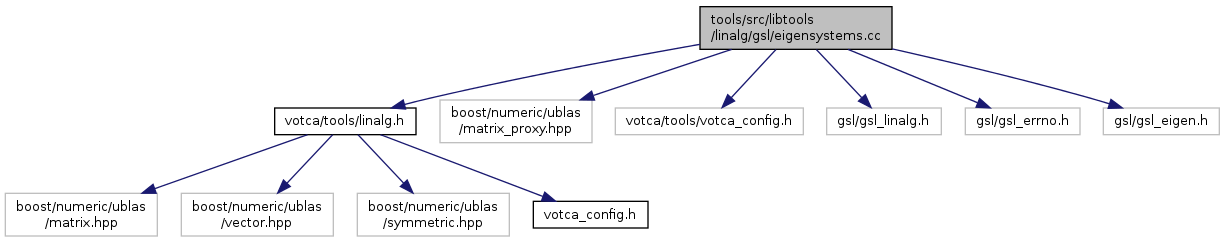
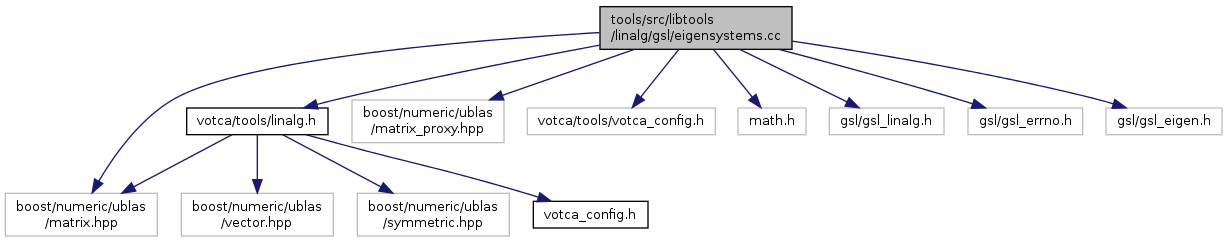
Documentation update

diff --git a/gsl_2eigensystems_8cc_source.html b/gsl_2eigensystems_8cc_source.html
@@ -72,18 +72,18 @@
 <div class="line"><a name="l00018"></a><span class="lineno">   18</span>&#160;<span class="preprocessor">#include &lt;<a class="code" href="linalg_8h.html">votca/tools/linalg.h</a>&gt;</span></div>
 <div class="line"><a name="l00019"></a><span class="lineno">   19</span>&#160;<span class="preprocessor">#include &lt;boost/numeric/ublas/matrix_proxy.hpp&gt;</span></div>
 <div class="line"><a name="l00020"></a><span class="lineno">   20</span>&#160;<span class="preprocessor">#include &lt;votca/tools/votca_config.h&gt;</span></div>
-<div class="line"><a name="l00021"></a><span class="lineno">   21</span>&#160;</div>
-<div class="line"><a name="l00022"></a><span class="lineno">   22</span>&#160;<span class="preprocessor">#ifndef NOGSL</span></div>
-<div class="line"><a name="l00023"></a><span class="lineno">   23</span>&#160;<span class="preprocessor"></span><span class="preprocessor">#include &lt;gsl/gsl_linalg.h&gt;</span></div>
-<div class="line"><a name="l00024"></a><span class="lineno">   24</span>&#160;<span class="preprocessor">#include &lt;gsl/gsl_errno.h&gt;</span></div>
-<div class="line"><a name="l00025"></a><span class="lineno">   25</span>&#160;<span class="preprocessor">#include &lt;gsl/gsl_eigen.h&gt;</span></div>
-<div class="line"><a name="l00026"></a><span class="lineno">   26</span>&#160;<span class="preprocessor">#endif</span></div>
-<div class="line"><a name="l00027"></a><span class="lineno">   27</span>&#160;<span class="preprocessor"></span></div>
-<div class="line"><a name="l00028"></a><span class="lineno">   28</span>&#160;</div>
-<div class="line"><a name="l00029"></a><span class="lineno">   29</span>&#160;<span class="keyword">namespace </span>votca { <span class="keyword">namespace </span>tools {</div>
-<div class="line"><a name="l00030"></a><span class="lineno">   30</span>&#160;</div>
-<div class="line"><a name="l00031"></a><span class="lineno">   31</span>&#160;<span class="keyword">using namespace </span>std;</div>
-<div class="line"><a name="l00032"></a><span class="lineno">   32</span>&#160;</div>
+<div class="line"><a name="l00021"></a><span class="lineno">   21</span>&#160;<span class="preprocessor">#include &lt;boost/numeric/ublas/matrix.hpp&gt;</span></div>
+<div class="line"><a name="l00022"></a><span class="lineno">   22</span>&#160;<span class="preprocessor">#include &lt;math.h&gt;</span>       <span class="comment">/* sqrt */</span></div>
+<div class="line"><a name="l00023"></a><span class="lineno">   23</span>&#160;<span class="preprocessor">#ifndef NOGSL</span></div>
+<div class="line"><a name="l00024"></a><span class="lineno">   24</span>&#160;<span class="preprocessor"></span><span class="preprocessor">#include &lt;gsl/gsl_linalg.h&gt;</span></div>
+<div class="line"><a name="l00025"></a><span class="lineno">   25</span>&#160;<span class="preprocessor">#include &lt;gsl/gsl_errno.h&gt;</span></div>
+<div class="line"><a name="l00026"></a><span class="lineno">   26</span>&#160;<span class="preprocessor">#include &lt;gsl/gsl_eigen.h&gt;</span></div>
+<div class="line"><a name="l00027"></a><span class="lineno">   27</span>&#160;<span class="preprocessor">#endif</span></div>
+<div class="line"><a name="l00028"></a><span class="lineno">   28</span>&#160;<span class="preprocessor"></span></div>
+<div class="line"><a name="l00029"></a><span class="lineno">   29</span>&#160;</div>
+<div class="line"><a name="l00030"></a><span class="lineno">   30</span>&#160;<span class="keyword">namespace </span>votca { <span class="keyword">namespace </span>tools {</div>
+<div class="line"><a name="l00031"></a><span class="lineno">   31</span>&#160;</div>
+<div class="line"><a name="l00032"></a><span class="lineno">   32</span>&#160;<span class="keyword">using namespace </span>std;</div>
 <div class="line"><a name="l00033"></a><span class="lineno">   33</span>&#160; </div>
 <div class="line"><a name="l00040"></a><span class="lineno"><a class="line" href="namespacevotca_1_1tools.html#a70042ba07c0a9b06bb6c6fa1e0dada20">   40</a></span>&#160;<span class="keywordtype">bool</span> <a class="code" href="namespacevotca_1_1tools.html#a70042ba07c0a9b06bb6c6fa1e0dada20">linalg_eigenvalues_symmetric</a>( ub::symmetric_matrix&lt;double&gt; &amp;<a class="code" href="linsolve_8m.html#a3b98e2dffc6cb06a89dcb0d5c60a0206">A</a>, ub::vector&lt;double&gt; &amp;E, ub::matrix&lt;double&gt; &amp;V)</div>
 <div class="line"><a name="l00041"></a><span class="lineno">   41</span>&#160;{</div>
@@ -269,30 +269,61 @@
 <div class="line"><a name="l00242"></a><span class="lineno">  242</span>&#160;        gsl_error_handler_t *handler = gsl_set_error_handler_off();</div>
 <div class="line"><a name="l00243"></a><span class="lineno">  243</span>&#160;        <span class="keyword">const</span> <span class="keywordtype">size_t</span> N = A.size1();</div>
 <div class="line"><a name="l00244"></a><span class="lineno">  244</span>&#160;        </div>
-<div class="line"><a name="l00245"></a><span class="lineno">  245</span>&#160;        <span class="comment">// gsl does not handle conversion of a symmetric_matrix </span></div>
+<div class="line"><a name="l00245"></a><span class="lineno">  245</span>&#160;        <span class="comment">// gsl destroys A so use copy</span></div>
 <div class="line"><a name="l00246"></a><span class="lineno">  246</span>&#160;        ub::matrix&lt;double&gt; _A( N,N );</div>
 <div class="line"><a name="l00247"></a><span class="lineno">  247</span>&#160;        _A = <a class="code" href="linsolve_8m.html#a3b98e2dffc6cb06a89dcb0d5c60a0206">A</a>;</div>
 <div class="line"><a name="l00248"></a><span class="lineno">  248</span>&#160;        </div>
-<div class="line"><a name="l00249"></a><span class="lineno">  249</span>&#160;        E.resize(N, <span class="keyword">false</span>);</div>
-<div class="line"><a name="l00250"></a><span class="lineno">  250</span>&#160;        V.resize(N, N, <span class="keyword">false</span>);</div>
-<div class="line"><a name="l00251"></a><span class="lineno">  251</span>&#160;        gsl_matrix_view A_view = gsl_matrix_view_array(&amp;_A(0,0), N, N);</div>
-<div class="line"><a name="l00252"></a><span class="lineno">  252</span>&#160;        gsl_matrix_view B_view = gsl_matrix_view_array(&amp;B(0,0), N, N);</div>
-<div class="line"><a name="l00253"></a><span class="lineno">  253</span>&#160;        gsl_vector_view E_view = gsl_vector_view_array(&amp;E(0), N);</div>
-<div class="line"><a name="l00254"></a><span class="lineno">  254</span>&#160;        gsl_matrix_view V_view = gsl_matrix_view_array(&amp;V(0,0), N, N);</div>
-<div class="line"><a name="l00255"></a><span class="lineno">  255</span>&#160;        gsl_eigen_gensymmv_workspace *w = gsl_eigen_gensymmv_alloc(N);</div>
-<div class="line"><a name="l00256"></a><span class="lineno">  256</span>&#160;</div>
-<div class="line"><a name="l00257"></a><span class="lineno">  257</span>&#160;        <span class="keywordtype">int</span> status = gsl_eigen_gensymmv(&amp;A_view.matrix,&amp;B_view.matrix, &amp;E_view.vector, &amp;V_view.matrix, w);</div>
-<div class="line"><a name="l00258"></a><span class="lineno">  258</span>&#160;        gsl_eigen_gensymmv_sort(&amp;E_view.vector, &amp;V_view.matrix, GSL_EIGEN_SORT_VAL_ASC);</div>
-<div class="line"><a name="l00259"></a><span class="lineno">  259</span>&#160;        gsl_eigen_gensymmv_free(w);</div>
-<div class="line"><a name="l00260"></a><span class="lineno">  260</span>&#160;        gsl_set_error_handler(handler);</div>
-<div class="line"><a name="l00261"></a><span class="lineno">  261</span>&#160;        </div>
-<div class="line"><a name="l00262"></a><span class="lineno">  262</span>&#160;        <span class="keywordflow">return</span> (status != 0);</div>
-<div class="line"><a name="l00263"></a><span class="lineno">  263</span>&#160;<span class="preprocessor">#endif</span></div>
-<div class="line"><a name="l00264"></a><span class="lineno">  264</span>&#160;<span class="preprocessor"></span>};</div>
-<div class="line"><a name="l00265"></a><span class="lineno">  265</span>&#160;</div>
+<div class="line"><a name="l00249"></a><span class="lineno">  249</span>&#160;        ub::matrix&lt;double&gt; _B( N,N );</div>
+<div class="line"><a name="l00250"></a><span class="lineno">  250</span>&#160;        _B=B;</div>
+<div class="line"><a name="l00251"></a><span class="lineno">  251</span>&#160;        </div>
+<div class="line"><a name="l00252"></a><span class="lineno">  252</span>&#160;        E.resize(N, <span class="keyword">false</span>);</div>
+<div class="line"><a name="l00253"></a><span class="lineno">  253</span>&#160;        V.resize(N, N, <span class="keyword">false</span>);</div>
+<div class="line"><a name="l00254"></a><span class="lineno">  254</span>&#160;        gsl_matrix_view A_view = gsl_matrix_view_array(&amp;_A(0,0), N, N);</div>
+<div class="line"><a name="l00255"></a><span class="lineno">  255</span>&#160;        gsl_matrix_view B_view = gsl_matrix_view_array(&amp;_B(0,0), N, N);</div>
+<div class="line"><a name="l00256"></a><span class="lineno">  256</span>&#160;        gsl_vector_view E_view = gsl_vector_view_array(&amp;E(0), N);</div>
+<div class="line"><a name="l00257"></a><span class="lineno">  257</span>&#160;        gsl_matrix_view V_view = gsl_matrix_view_array(&amp;V(0,0), N, N);</div>
+<div class="line"><a name="l00258"></a><span class="lineno">  258</span>&#160;        gsl_eigen_gensymmv_workspace *w = gsl_eigen_gensymmv_alloc(N);</div>
+<div class="line"><a name="l00259"></a><span class="lineno">  259</span>&#160;</div>
+<div class="line"><a name="l00260"></a><span class="lineno">  260</span>&#160;        <span class="keywordtype">int</span> status = gsl_eigen_gensymmv(&amp;A_view.matrix,&amp;B_view.matrix, &amp;E_view.vector, &amp;V_view.matrix, w);</div>
+<div class="line"><a name="l00261"></a><span class="lineno">  261</span>&#160;        gsl_eigen_gensymmv_sort(&amp;E_view.vector, &amp;V_view.matrix, GSL_EIGEN_SORT_VAL_ASC);</div>
+<div class="line"><a name="l00262"></a><span class="lineno">  262</span>&#160;        gsl_eigen_gensymmv_free(w);</div>
+<div class="line"><a name="l00263"></a><span class="lineno">  263</span>&#160;        gsl_set_error_handler(handler);</div>
+<div class="line"><a name="l00264"></a><span class="lineno">  264</span>&#160;        </div>
+<div class="line"><a name="l00265"></a><span class="lineno">  265</span>&#160;      </div>
 <div class="line"><a name="l00266"></a><span class="lineno">  266</span>&#160;</div>
-<div class="line"><a name="l00267"></a><span class="lineno">  267</span>&#160;</div>
-<div class="line"><a name="l00268"></a><span class="lineno">  268</span>&#160;}}</div>
+<div class="line"><a name="l00267"></a><span class="lineno">  267</span>&#160;    </div>
+<div class="line"><a name="l00268"></a><span class="lineno">  268</span>&#160;        ub::matrix&lt;double&gt; _temp= ub::prod(B,V);</div>
+<div class="line"><a name="l00269"></a><span class="lineno">  269</span>&#160;        ub::matrix&lt;double&gt; n=ub::prod(ub::trans(V),_temp);</div>
+<div class="line"><a name="l00270"></a><span class="lineno">  270</span>&#160;      <span class="comment">/*  </span></div>
+<div class="line"><a name="l00271"></a><span class="lineno">  271</span>&#160;<span class="comment">        for (int i=0;i&lt;n.size1();i++){</span></div>
+<div class="line"><a name="l00272"></a><span class="lineno">  272</span>&#160;<span class="comment">          </span></div>
+<div class="line"><a name="l00273"></a><span class="lineno">  273</span>&#160;<span class="comment">                for (int j=0;j&lt;n.size2();j++){</span></div>
+<div class="line"><a name="l00274"></a><span class="lineno">  274</span>&#160;<span class="comment">                cout &lt;&lt;&quot;n(&quot;&lt;&lt; i &lt;&lt; &quot;:&quot;&lt;&lt; j &lt;&lt;&quot;)= &quot; &lt;&lt;n(i,j)&lt;&lt; endl;      </span></div>
+<div class="line"><a name="l00275"></a><span class="lineno">  275</span>&#160;<span class="comment">                }}</span></div>
+<div class="line"><a name="l00276"></a><span class="lineno">  276</span>&#160;<span class="comment">        </span></div>
+<div class="line"><a name="l00277"></a><span class="lineno">  277</span>&#160;<span class="comment">       */</span> </div>
+<div class="line"><a name="l00278"></a><span class="lineno">  278</span>&#160;        </div>
+<div class="line"><a name="l00279"></a><span class="lineno">  279</span>&#160;        <span class="keywordflow">for</span> (<span class="keywordtype">int</span> <a class="code" href="ImagePotential_8h.html#a7e98b8a17c0aad30ba64d47b74e2a6c1">i</a>=0;<a class="code" href="ImagePotential_8h.html#a7e98b8a17c0aad30ba64d47b74e2a6c1">i</a>&lt;n.size1();<a class="code" href="ImagePotential_8h.html#a7e98b8a17c0aad30ba64d47b74e2a6c1">i</a>++){</div>
+<div class="line"><a name="l00280"></a><span class="lineno">  280</span>&#160;            ub::matrix_range&lt;ub::matrix&lt;double&gt; &gt; column=ub::subrange( V, 0, V.size2(),<a class="code" href="ImagePotential_8h.html#a7e98b8a17c0aad30ba64d47b74e2a6c1">i</a>, <a class="code" href="ImagePotential_8h.html#a7e98b8a17c0aad30ba64d47b74e2a6c1">i</a>+1 );</div>
+<div class="line"><a name="l00281"></a><span class="lineno">  281</span>&#160;            <span class="comment">//cout &lt;&lt;&quot;n(&quot;&lt;&lt; i &lt;&lt; &quot;:&quot;&lt;&lt; i &lt;&lt;&quot;)= &quot; &lt;&lt;n(i,i) &lt;&lt;&quot;:&quot; &lt;&lt;sqrt(n(i,i))&lt;&lt; endl; </span></div>
+<div class="line"><a name="l00282"></a><span class="lineno">  282</span>&#160;            <span class="comment">//for (int j=0;j&lt;column.size1();j++){</span></div>
+<div class="line"><a name="l00283"></a><span class="lineno">  283</span>&#160;                </div>
+<div class="line"><a name="l00284"></a><span class="lineno">  284</span>&#160;           </div>
+<div class="line"><a name="l00285"></a><span class="lineno">  285</span>&#160;            <span class="comment">//cout &lt;&lt;&quot;V(&quot;&lt;&lt;i&lt;&lt;&quot;:&quot;&lt;&lt;j&lt;&lt;&quot;)=&quot;&lt;&lt;column(j,0)&lt;&lt; endl;</span></div>
+<div class="line"><a name="l00286"></a><span class="lineno">  286</span>&#160;                    </div>
+<div class="line"><a name="l00287"></a><span class="lineno">  287</span>&#160;              <span class="comment">//}</span></div>
+<div class="line"><a name="l00288"></a><span class="lineno">  288</span>&#160;            column=column/sqrt(n(<a class="code" href="ImagePotential_8h.html#a7e98b8a17c0aad30ba64d47b74e2a6c1">i</a>,<a class="code" href="ImagePotential_8h.html#a7e98b8a17c0aad30ba64d47b74e2a6c1">i</a>));</div>
+<div class="line"><a name="l00289"></a><span class="lineno">  289</span>&#160;  </div>
+<div class="line"><a name="l00290"></a><span class="lineno">  290</span>&#160;        }</div>
+<div class="line"><a name="l00291"></a><span class="lineno">  291</span>&#160;    </div>
+<div class="line"><a name="l00292"></a><span class="lineno">  292</span>&#160;        <span class="keywordflow">return</span> (status != 0);</div>
+<div class="line"><a name="l00293"></a><span class="lineno">  293</span>&#160;<span class="preprocessor">#endif</span></div>
+<div class="line"><a name="l00294"></a><span class="lineno">  294</span>&#160;<span class="preprocessor"></span>};</div>
+<div class="line"><a name="l00295"></a><span class="lineno">  295</span>&#160;</div>
+<div class="line"><a name="l00296"></a><span class="lineno">  296</span>&#160;</div>
+<div class="line"><a name="l00297"></a><span class="lineno">  297</span>&#160;</div>
+<div class="line"><a name="l00298"></a><span class="lineno">  298</span>&#160;}}</div>
+<div class="ttc" id="ImagePotential_8h_html_a7e98b8a17c0aad30ba64d47b74e2a6c1"><div class="ttname"><a href="ImagePotential_8h.html#a7e98b8a17c0aad30ba64d47b74e2a6c1">i</a></div><div class="ttdeci">int i</div><div class="ttdef"><b>Definition:</b> <a href="ImagePotential_8h_source.html#l00028">ImagePotential.h:28</a></div></div>
 <div class="ttc" id="linalg_8h_html"><div class="ttname"><a href="linalg_8h.html">linalg.h</a></div></div>
 <div class="ttc" id="namespacevotca_1_1tools_html_a70042ba07c0a9b06bb6c6fa1e0dada20"><div class="ttname"><a href="namespacevotca_1_1tools.html#a70042ba07c0a9b06bb6c6fa1e0dada20">votca::tools::linalg_eigenvalues_symmetric</a></div><div class="ttdeci">bool linalg_eigenvalues_symmetric(ub::symmetric_matrix&lt; double &gt; &amp;A, ub::vector&lt; double &gt; &amp;E, ub::matrix&lt; double &gt; &amp;V)</div><div class="ttdoc">eigenvalues of a symmetric matrix A*x=E*x </div><div class="ttdef"><b>Definition:</b> <a href="gsl_2eigensystems_8cc_source.html#l00040">eigensystems.cc:40</a></div></div>
 <div class="ttc" id="namespacevotca_1_1tools_html_aef4efe58314fc9ce77156196baea1783"><div class="ttname"><a href="namespacevotca_1_1tools.html#aef4efe58314fc9ce77156196baea1783">votca::tools::linalg_eigenvalues_general</a></div><div class="ttdeci">bool linalg_eigenvalues_general(ub::matrix&lt; double &gt; &amp;A, ub::matrix&lt; double &gt; &amp;B, ub::vector&lt; double &gt; &amp;E, ub::matrix&lt; double &gt; &amp;V)</div><div class="ttdoc">eigenvalues of a symmetric matrix A*x=E*B*x double precision </div><div class="ttdef"><b>Definition:</b> <a href="gsl_2eigensystems_8cc_source.html#l00236">eigensystems.cc:236</a></div></div>

diff --git a/mkl_2eigensystems_8cc_source.html b/mkl_2eigensystems_8cc_source.html
@@ -386,42 +386,44 @@
 <div class="line"><a name="l00332"></a><span class="lineno">  332</span>&#160;    <span class="keywordtype">int</span> n = A.size1();</div>
 <div class="line"><a name="l00333"></a><span class="lineno">  333</span>&#160;    <span class="keywordtype">int</span> lda = n ;</div>
 <div class="line"><a name="l00334"></a><span class="lineno">  334</span>&#160;    <span class="keywordtype">int</span> ldb =B.size1();</div>
-<div class="line"><a name="l00335"></a><span class="lineno">  335</span>&#160;    <span class="keywordflow">if</span> (lda!=ldb){</div>
-<div class="line"><a name="l00336"></a><span class="lineno">  336</span>&#160;        cout &lt;&lt; <span class="stringliteral">&quot;Matrices A and B have not the same size&quot;</span>&lt;&lt; endl;</div>
-<div class="line"><a name="l00337"></a><span class="lineno">  337</span>&#160;        exit(1);</div>
-<div class="line"><a name="l00338"></a><span class="lineno">  338</span>&#160;    }</div>
-<div class="line"><a name="l00339"></a><span class="lineno">  339</span>&#160;    <span class="comment">// make sure that containers for eigenvalues and eigenvectors are of correct size</span></div>
-<div class="line"><a name="l00340"></a><span class="lineno">  340</span>&#160;    E.resize(n);</div>
-<div class="line"><a name="l00341"></a><span class="lineno">  341</span>&#160;    V.resize(n, n);</div>
-<div class="line"><a name="l00342"></a><span class="lineno">  342</span>&#160;    <span class="comment">// Query and allocate the optimal workspace </span></div>
-<div class="line"><a name="l00343"></a><span class="lineno">  343</span>&#160;    <span class="keywordtype">double</span> wkopt;</div>
-<div class="line"><a name="l00344"></a><span class="lineno">  344</span>&#160;    <span class="keywordtype">double</span>* work;</div>
-<div class="line"><a name="l00345"></a><span class="lineno">  345</span>&#160;    <span class="keywordtype">int</span> info;</div>
-<div class="line"><a name="l00346"></a><span class="lineno">  346</span>&#160;    <span class="keywordtype">int</span> lwork;</div>
-<div class="line"><a name="l00347"></a><span class="lineno">  347</span>&#160;    lwork = -1;</div>
-<div class="line"><a name="l00348"></a><span class="lineno">  348</span>&#160;</div>
-<div class="line"><a name="l00349"></a><span class="lineno">  349</span>&#160;    <span class="comment">// MKL is different to GSL because it overwrites the input matrix</span></div>
-<div class="line"><a name="l00350"></a><span class="lineno">  350</span>&#160;    V = <a class="code" href="linsolve_8m.html#a3b98e2dffc6cb06a89dcb0d5c60a0206">A</a>; <span class="comment">// make a copy (might actually be unnecessary in most cases!)</span></div>
-<div class="line"><a name="l00351"></a><span class="lineno">  351</span>&#160;</div>
-<div class="line"><a name="l00352"></a><span class="lineno">  352</span>&#160;    <span class="comment">// make a pointer to the ublas matrix so that LAPACK understands it </span></div>
-<div class="line"><a name="l00353"></a><span class="lineno">  353</span>&#160;    <span class="keywordtype">double</span> * pB = <span class="keyword">const_cast&lt;</span><span class="keywordtype">double</span>*<span class="keyword">&gt;</span>(&amp;B.data().begin()[0]);  </div>
-<div class="line"><a name="l00354"></a><span class="lineno">  354</span>&#160;    <span class="keywordtype">double</span> * pV = <span class="keyword">const_cast&lt;</span><span class="keywordtype">double</span>*<span class="keyword">&gt;</span>(&amp;V.data().begin()[0]);</div>
-<div class="line"><a name="l00355"></a><span class="lineno">  355</span>&#160;    <span class="keywordtype">double</span> * pE = <span class="keyword">const_cast&lt;</span><span class="keywordtype">double</span>*<span class="keyword">&gt;</span>(&amp;E.data()[0]);</div>
-<div class="line"><a name="l00356"></a><span class="lineno">  356</span>&#160;    </div>
-<div class="line"><a name="l00357"></a><span class="lineno">  357</span>&#160;    <span class="comment">// call LAPACK via C interface</span></div>
-<div class="line"><a name="l00358"></a><span class="lineno">  358</span>&#160;    info = LAPACKE_dsygv( LAPACK_ROW_MAJOR,1,<span class="charliteral">&#39;V&#39;</span>, <span class="charliteral">&#39;U&#39;</span>, n, pV , lda,pB,ldb, pE );</div>
-<div class="line"><a name="l00359"></a><span class="lineno">  359</span>&#160;</div>
-<div class="line"><a name="l00360"></a><span class="lineno">  360</span>&#160;    <span class="keywordflow">if</span>( info &gt; 0 ) {</div>
-<div class="line"><a name="l00361"></a><span class="lineno">  361</span>&#160;        <span class="keywordflow">return</span> <span class="keyword">false</span>;</div>
-<div class="line"><a name="l00362"></a><span class="lineno">  362</span>&#160;    } <span class="keywordflow">else</span> {</div>
-<div class="line"><a name="l00363"></a><span class="lineno">  363</span>&#160;        <span class="keywordflow">return</span> <span class="keyword">true</span>;</div>
-<div class="line"><a name="l00364"></a><span class="lineno">  364</span>&#160;    }</div>
-<div class="line"><a name="l00365"></a><span class="lineno">  365</span>&#160;</div>
-<div class="line"><a name="l00366"></a><span class="lineno">  366</span>&#160;<span class="preprocessor">#endif</span></div>
-<div class="line"><a name="l00367"></a><span class="lineno">  367</span>&#160;<span class="preprocessor"></span>};</div>
-<div class="line"><a name="l00368"></a><span class="lineno">  368</span>&#160;</div>
-<div class="line"><a name="l00369"></a><span class="lineno">  369</span>&#160;</div>
-<div class="line"><a name="l00370"></a><span class="lineno">  370</span>&#160;}}</div>
+<div class="line"><a name="l00335"></a><span class="lineno">  335</span>&#160;    ub::matrix&lt;double&gt; _B(ldb,ldb);</div>
+<div class="line"><a name="l00336"></a><span class="lineno">  336</span>&#160;    _B=B;</div>
+<div class="line"><a name="l00337"></a><span class="lineno">  337</span>&#160;    <span class="keywordflow">if</span> (lda!=ldb){</div>
+<div class="line"><a name="l00338"></a><span class="lineno">  338</span>&#160;        cout &lt;&lt; <span class="stringliteral">&quot;Matrices A and B have not the same size&quot;</span>&lt;&lt; endl;</div>
+<div class="line"><a name="l00339"></a><span class="lineno">  339</span>&#160;        exit(1);</div>
+<div class="line"><a name="l00340"></a><span class="lineno">  340</span>&#160;    }</div>
+<div class="line"><a name="l00341"></a><span class="lineno">  341</span>&#160;    <span class="comment">// make sure that containers for eigenvalues and eigenvectors are of correct size</span></div>
+<div class="line"><a name="l00342"></a><span class="lineno">  342</span>&#160;    E.resize(n);</div>
+<div class="line"><a name="l00343"></a><span class="lineno">  343</span>&#160;    V.resize(n, n);</div>
+<div class="line"><a name="l00344"></a><span class="lineno">  344</span>&#160;    <span class="comment">// Query and allocate the optimal workspace </span></div>
+<div class="line"><a name="l00345"></a><span class="lineno">  345</span>&#160;    <span class="keywordtype">double</span> wkopt;</div>
+<div class="line"><a name="l00346"></a><span class="lineno">  346</span>&#160;    <span class="keywordtype">double</span>* work;</div>
+<div class="line"><a name="l00347"></a><span class="lineno">  347</span>&#160;    <span class="keywordtype">int</span> info;</div>
+<div class="line"><a name="l00348"></a><span class="lineno">  348</span>&#160;    <span class="keywordtype">int</span> lwork;</div>
+<div class="line"><a name="l00349"></a><span class="lineno">  349</span>&#160;    lwork = -1;</div>
+<div class="line"><a name="l00350"></a><span class="lineno">  350</span>&#160;</div>
+<div class="line"><a name="l00351"></a><span class="lineno">  351</span>&#160;    <span class="comment">// MKL is different to GSL because it overwrites the input matrix</span></div>
+<div class="line"><a name="l00352"></a><span class="lineno">  352</span>&#160;    V = <a class="code" href="linsolve_8m.html#a3b98e2dffc6cb06a89dcb0d5c60a0206">A</a>; <span class="comment">// make a copy (might actually be unnecessary in most cases!)</span></div>
+<div class="line"><a name="l00353"></a><span class="lineno">  353</span>&#160;</div>
+<div class="line"><a name="l00354"></a><span class="lineno">  354</span>&#160;    <span class="comment">// make a pointer to the ublas matrix so that LAPACK understands it </span></div>
+<div class="line"><a name="l00355"></a><span class="lineno">  355</span>&#160;    <span class="keywordtype">double</span> * pB = <span class="keyword">const_cast&lt;</span><span class="keywordtype">double</span>*<span class="keyword">&gt;</span>(&amp;_B.data().begin()[0]);  </div>
+<div class="line"><a name="l00356"></a><span class="lineno">  356</span>&#160;    <span class="keywordtype">double</span> * pV = <span class="keyword">const_cast&lt;</span><span class="keywordtype">double</span>*<span class="keyword">&gt;</span>(&amp;V.data().begin()[0]);</div>
+<div class="line"><a name="l00357"></a><span class="lineno">  357</span>&#160;    <span class="keywordtype">double</span> * pE = <span class="keyword">const_cast&lt;</span><span class="keywordtype">double</span>*<span class="keyword">&gt;</span>(&amp;E.data()[0]);</div>
+<div class="line"><a name="l00358"></a><span class="lineno">  358</span>&#160;    </div>
+<div class="line"><a name="l00359"></a><span class="lineno">  359</span>&#160;    <span class="comment">// call LAPACK via C interface</span></div>
+<div class="line"><a name="l00360"></a><span class="lineno">  360</span>&#160;    info = LAPACKE_dsygv( LAPACK_ROW_MAJOR,1,<span class="charliteral">&#39;V&#39;</span>, <span class="charliteral">&#39;U&#39;</span>, n, pV , lda,pB,ldb, pE );</div>
+<div class="line"><a name="l00361"></a><span class="lineno">  361</span>&#160;</div>
+<div class="line"><a name="l00362"></a><span class="lineno">  362</span>&#160;    <span class="keywordflow">if</span>( info &gt; 0 ) {</div>
+<div class="line"><a name="l00363"></a><span class="lineno">  363</span>&#160;        <span class="keywordflow">return</span> <span class="keyword">false</span>;</div>
+<div class="line"><a name="l00364"></a><span class="lineno">  364</span>&#160;    } <span class="keywordflow">else</span> {</div>
+<div class="line"><a name="l00365"></a><span class="lineno">  365</span>&#160;        <span class="keywordflow">return</span> <span class="keyword">true</span>;</div>
+<div class="line"><a name="l00366"></a><span class="lineno">  366</span>&#160;    }</div>
+<div class="line"><a name="l00367"></a><span class="lineno">  367</span>&#160;</div>
+<div class="line"><a name="l00368"></a><span class="lineno">  368</span>&#160;<span class="preprocessor">#endif</span></div>
+<div class="line"><a name="l00369"></a><span class="lineno">  369</span>&#160;<span class="preprocessor"></span>};</div>
+<div class="line"><a name="l00370"></a><span class="lineno">  370</span>&#160;</div>
+<div class="line"><a name="l00371"></a><span class="lineno">  371</span>&#160;</div>
+<div class="line"><a name="l00372"></a><span class="lineno">  372</span>&#160;}}</div>
 <div class="ttc" id="linalg_8h_html"><div class="ttname"><a href="linalg_8h.html">linalg.h</a></div></div>
 <div class="ttc" id="namespacevotca_1_1moo_html_a6a44f6663e516c56327f0baf6560f39da522b856dcae786b6fd48bd5e2d802f5f"><div class="ttname"><a href="namespacevotca_1_1moo.html#a6a44f6663e516c56327f0baf6560f39da522b856dcae786b6fd48bd5e2d802f5f">votca::moo::m</a></div><div class="ttdef"><b>Definition:</b> <a href="units_8h_source.html#l00034">units.h:34</a></div></div>
 <div class="ttc" id="namespacevotca_1_1tools_html_a70042ba07c0a9b06bb6c6fa1e0dada20"><div class="ttname"><a href="namespacevotca_1_1tools.html#a70042ba07c0a9b06bb6c6fa1e0dada20">votca::tools::linalg_eigenvalues_symmetric</a></div><div class="ttdeci">bool linalg_eigenvalues_symmetric(ub::symmetric_matrix&lt; double &gt; &amp;A, ub::vector&lt; double &gt; &amp;E, ub::matrix&lt; double &gt; &amp;V)</div><div class="ttdoc">eigenvalues of a symmetric matrix A*x=E*x </div><div class="ttdef"><b>Definition:</b> <a href="gsl_2eigensystems_8cc_source.html#l00040">eigensystems.cc:40</a></div></div>

diff --git a/gsl_2eigensystems_8cc.html b/gsl_2eigensystems_8cc.html
@@ -58,6 +58,8 @@
 <div class="textblock"><code>#include &lt;<a class="el" href="linalg_8h_source.html">votca/tools/linalg.h</a>&gt;</code><br/>
 <code>#include &lt;boost/numeric/ublas/matrix_proxy.hpp&gt;</code><br/>
 <code>#include &lt;votca/tools/votca_config.h&gt;</code><br/>
+<code>#include &lt;boost/numeric/ublas/matrix.hpp&gt;</code><br/>
+<code>#include &lt;math.h&gt;</code><br/>
 <code>#include &lt;gsl/gsl_linalg.h&gt;</code><br/>
 <code>#include &lt;gsl/gsl_errno.h&gt;</code><br/>
 <code>#include &lt;gsl/gsl_eigen.h&gt;</code><br/>
@@ -66,7 +68,7 @@ Include dependency graph for eigensystems.cc:</div>
 <div class="dyncontent">
 <div class="center"><img src="gsl_2eigensystems_8cc__incl.png" border="0" usemap="#tools_2src_2libtools_2linalg_2gsl_2eigensystems_8cc" alt=""/></div>
 <map name="tools_2src_2libtools_2linalg_2gsl_2eigensystems_8cc" id="tools_2src_2libtools_2linalg_2gsl_2eigensystems_8cc">
-<area shape="rect" id="node3" href="linalg_8h.html" title="votca/tools/linalg.h" alt="" coords="275,107,416,135"/><area shape="rect" id="node11" href="votca__config_8h.html" title="votca_config.h" alt="" coords="533,201,648,229"/></map>
+<area shape="rect" id="node3" href="linalg_8h.html" title="votca/tools/linalg.h" alt="" coords="187,107,328,135"/><area shape="rect" id="node11" href="votca__config_8h.html" title="votca_config.h" alt="" coords="533,201,648,229"/></map>
 </div>
 </div>
 <p><a href="gsl_2eigensystems_8cc_source.html">Go to the source code of this file.</a></p>
